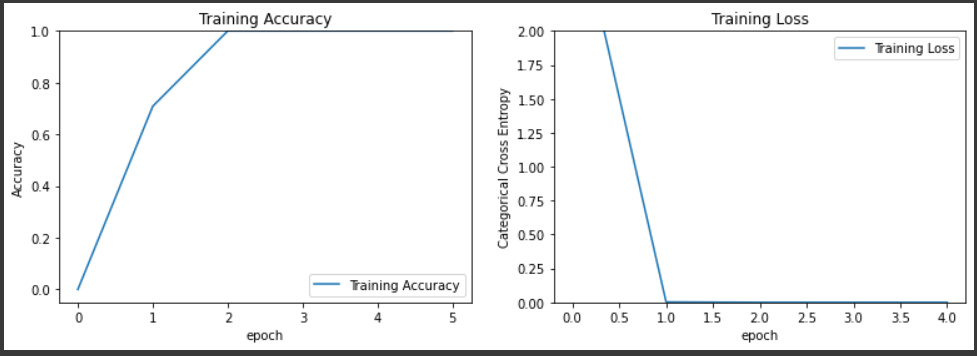
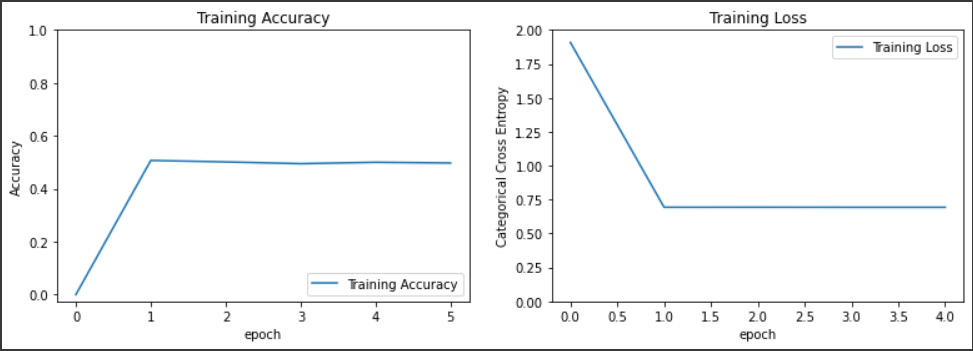
Add Test 7 debugging code

diff --git a/models/debugging/Test 7/README.md b/models/debugging/Test 7/README.md
@@ -7,12 +7,12 @@
 # Dataset :
 It is ensured that the signal is well hidden in the merged BBH signal + Noise. 
 ```
-| S.No. | Data Type          | Mode of Generation | No. of Samples | Noise Label | Signal Label   |
-| ----- | ------------------ | ------------------ | -------------- | ----------- | -------------- |
-| 1     | Noise              | Gaussian           | 5000           | N1          | Not Applicable |
-| ----- | ------------------ | ------------------ | -------------- | ----------- | -------------- |
-| 2     | BBH signal + Noise | SEOBNRv2           | 5000           | N1          | S1             |
-| ----- | ------------------ | ------------------ | -------------- | ----------- | -------------- |
+| S.No. | Data Type          | Mode of Generation     | No. of Samples | Noise Label | Signal Label   |
+| ----- | ------------------ | ---------------------- | -------------- | ----------- | -------------- |
+| 1     | Noise              | Gaussian (scale = 0.1) | 5000           | N1          | Not Applicable |
+| ----- | ------------------ | ---------------------- | -------------- | ----------- | -------------- |
+| 2     | BBH signal + Noise | SEOBNRv2               | 5000           | N1          | S1             |
+| ----- | ------------------ | ---------------------- | -------------- | ----------- | -------------- |
 ```
 
 # Model Architecture :
@@ -64,7 +64,9 @@ _________________________________________________________________
 ```
 | Trial No. | Normalized? | Amplitude Re-Scaled? | Val split(in %) | Optimizer | lr   | Batch Size | Epochs |
 | --------- | ----------- | -------------------- | --------------- | --------- | ---- | ---------- | ------ |
-| 1         | No          | Yes                  | 0               | Adam      | 1e-3 | 128        | 5      |
+| 1         | No          | Yes (By 1e19)        | 0               | Adam      | 1e-3 | 128        | 5      |
+| --------- | ----------- | -------------------- | --------------- | --------- | ---- | ---------- | ------ |
+| 2         | No          | Yes (By 1e18)        | 0               | Adam      | 1e-3 | 128        | 5      |
 | --------- | ----------- | -------------------- | --------------- | --------- | ---- | ---------- | ------ |
 ```
 
@@ -72,6 +74,10 @@ _________________________________________________________________
 ## Trial 1:
 <p align="center"> <img src="screenshots/graph_1.png"> </p>
 <p align="center"> <img src="screenshots/trial_1.png"> </p>
+
+## Trial 2:
+<p align="center"> <img src="screenshots/graph_2.png"> </p>
+<p align="center"> <img src="screenshots/trial_2.png"> </p>
 
 # References :
 1. Krastev, Plamen. (2019). Real-Time Detection of Gravitational Waves from Binary Neutron Stars using Artificial Neural Networks.
